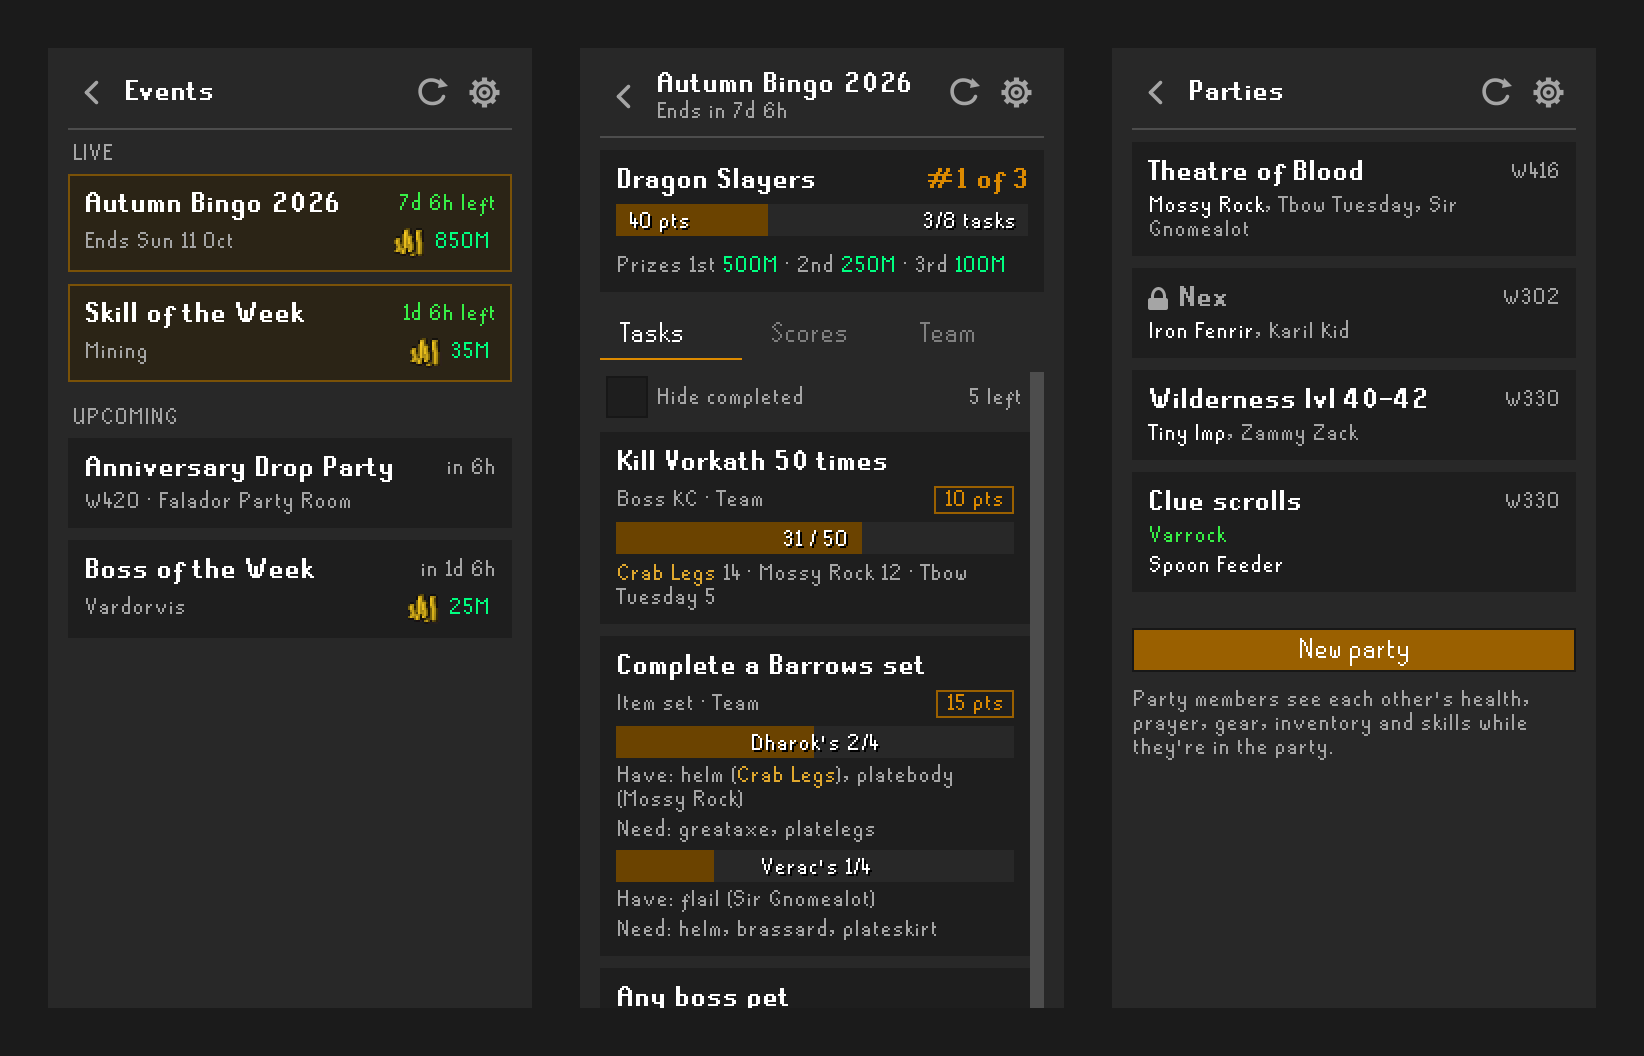
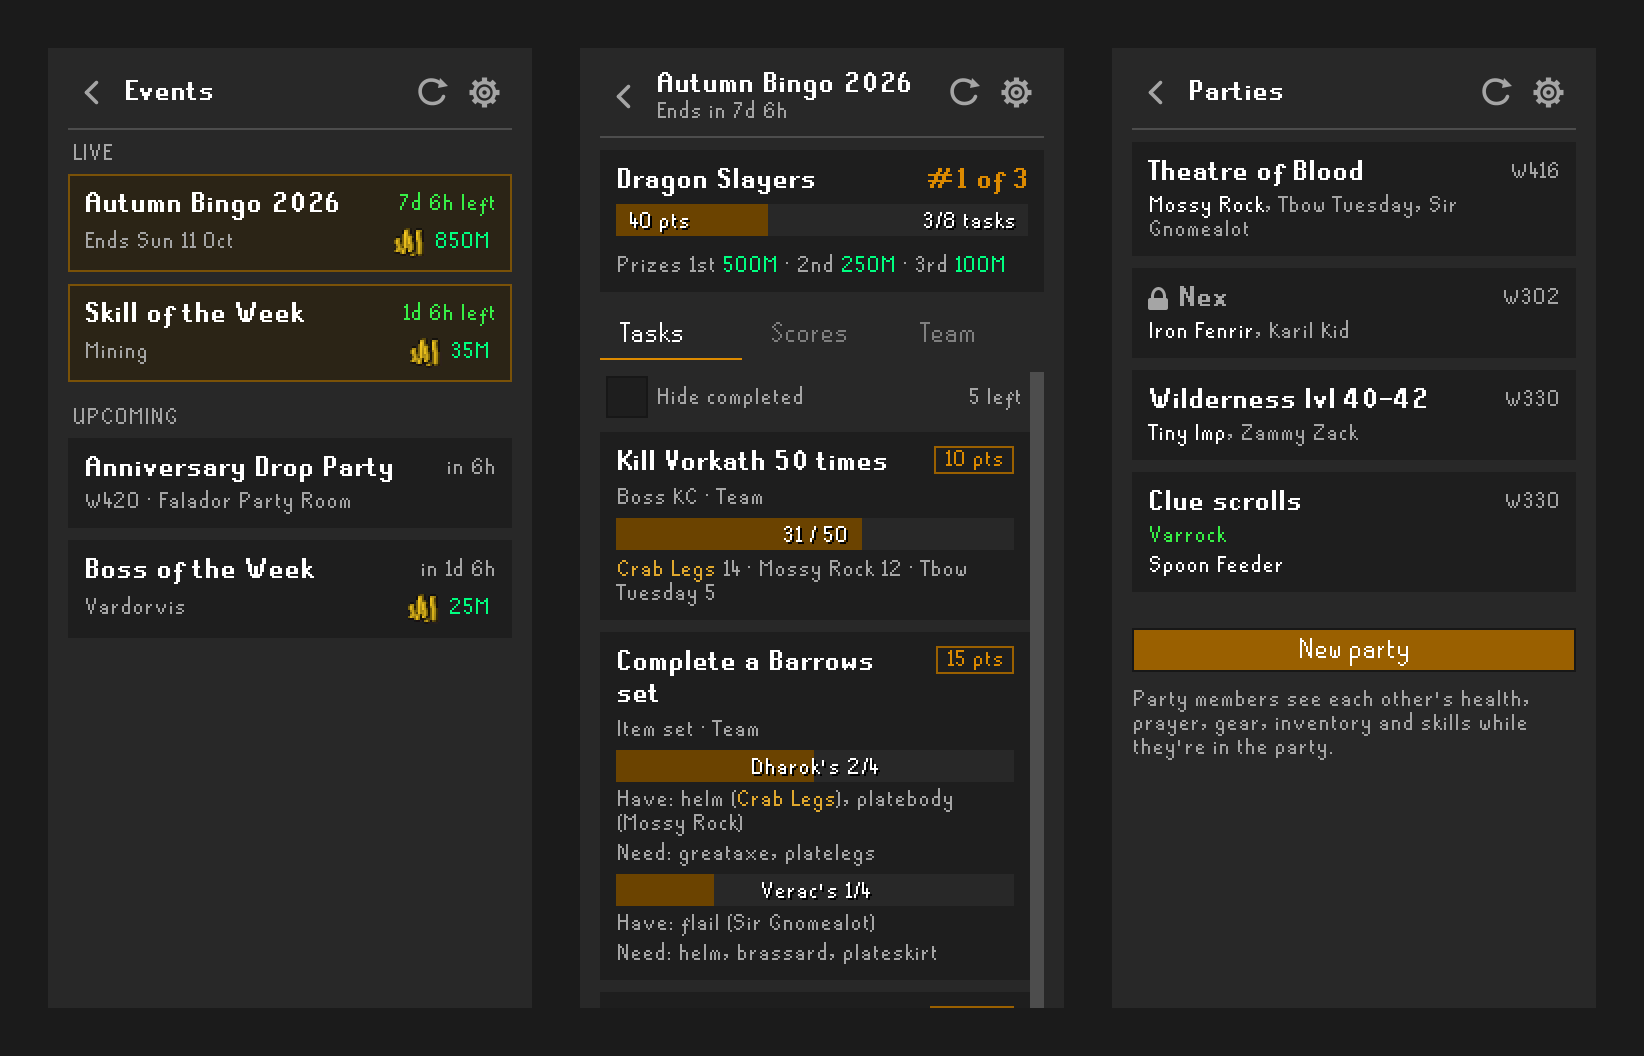
fix(ui): keep points badge beside title

diff --git a/src/main/java/com/tsghub/TsgHubSidebarPanel.java b/src/main/java/com/tsghub/TsgHubSidebarPanel.java
@@ -2051,14 +2051,13 @@ final class TsgHubSidebarPanel extends PluginPanel
 		boolean manual = "manual".equals(str(task, "type"));
 
 		JPanel card = card();
-		JLabel name = label(html(escape(str(task, "title")), CARD_TEXT_W - (completed ? 18 : 0)),
+		JLabel name = label(html(escape(str(task, "title")), CARD_TITLE_W - (completed ? 18 : 0)),
 			completed ? MUTED : TEXT, boldFont());
 		if (completed) name.setIcon(new CheckIcon());
-		card.add(name, BorderLayout.NORTH);
+		card.add(row(name, north(badge(integer(task, "points", 1) + " pts", completed ? MUTED : ACCENT))), BorderLayout.NORTH);
 
 		JPanel body = stack();
-		JLabel type = caption(taskTypeLabel(task) + (individual ? " · Everyone" : solo ? " · Solo" : " · Team"));
-		body.add(fitHeight(row(type, badge(integer(task, "points", 1) + " pts", completed ? MUTED : ACCENT))));
+		body.add(caption(taskTypeLabel(task) + (individual ? " · Everyone" : solo ? " · Solo" : " · Team")));
 		String description = str(task, "description").trim();
 		if (!description.isEmpty() && !completed) body.add(cardNote(description));
 
